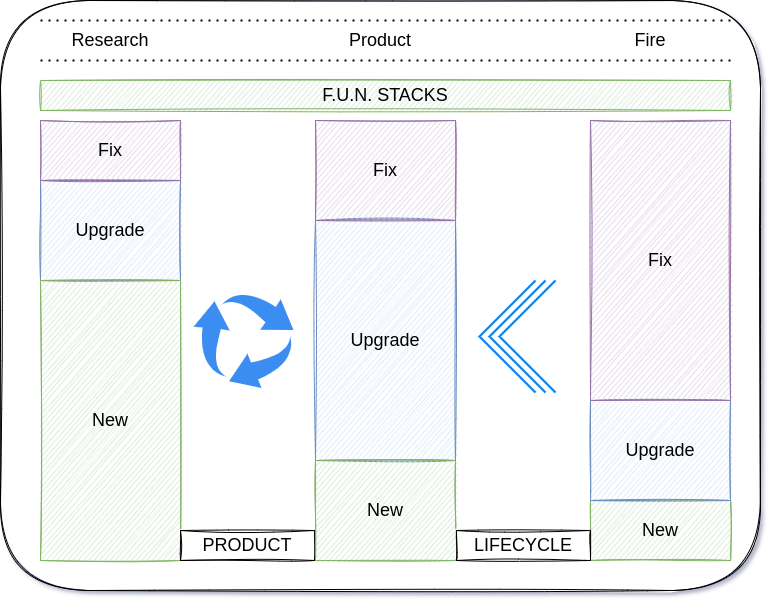
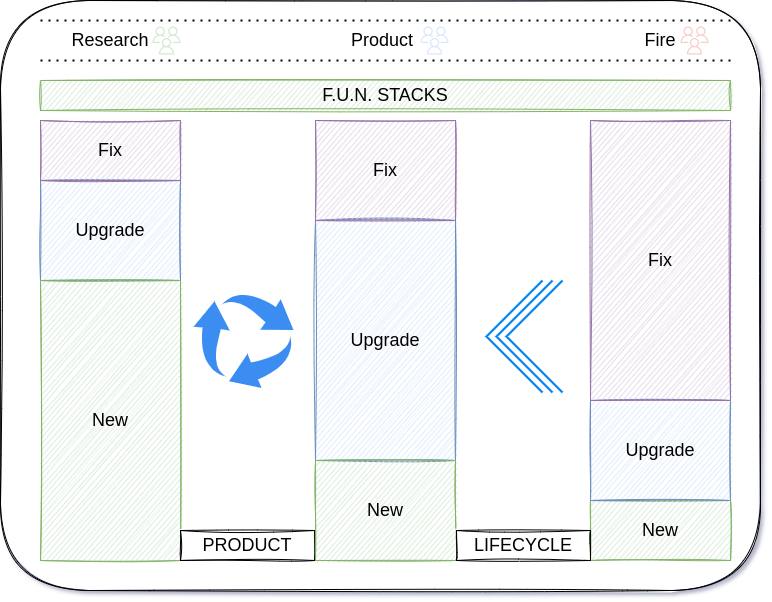
race teams

diff --git a/0racexp.md b/0racexp.md
@@ -107,6 +107,8 @@
 
 ## RACE Teams
 
+> ![NIRVai bizdevops structure](./images/racexp-bizdevops-team.png)
+
 ### Research Team
 
 - the most creative
@@ -121,6 +123,8 @@
 
 - the most knowledgeable
 - the team part of every other team, can do anyones job, even yours
+
+> ![nirvai raceteams](./images/racexp-raceteams.png)
 
 ## Popular isnt always Cool
 
